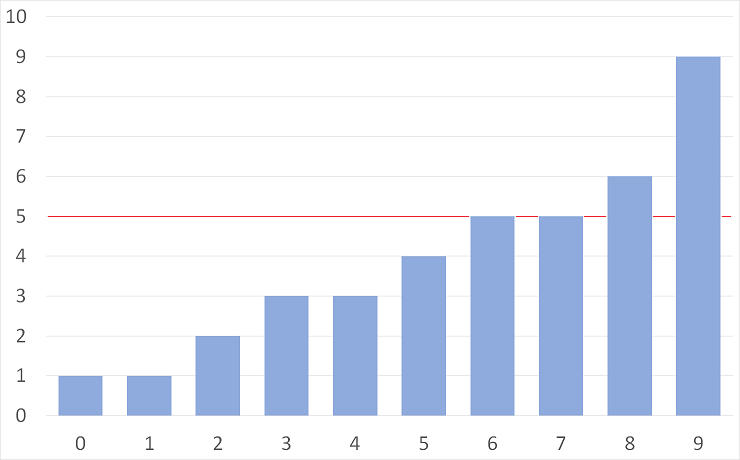
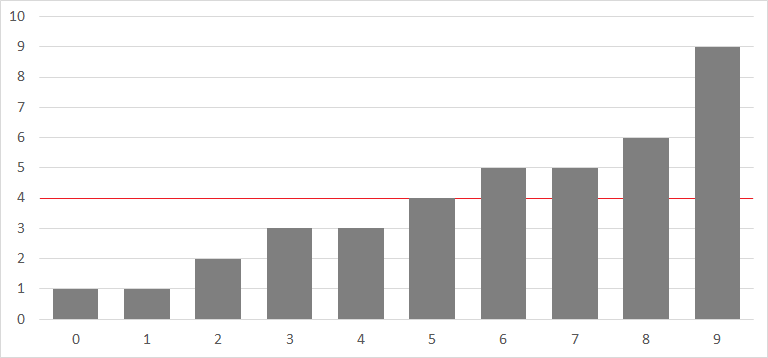
二分探索 問題例 終了

diff --git a/le/k_c_pej_p_gm/binarySearch/binarySearch.html b/le/k_c_pej_p_gm/binarySearch/binarySearch.html
@@ -95,7 +95,7 @@
         <article class="cb21 fxtb">
           <h2 class="cb33">二分探索</h2>
           <span class="cb34">
-            二分探索は、「要素数Nの配列Aの中に、K以下の数は何個あるか」といった問題の時に役立ちます。具体的には、Q個のクエリが投げられて、各クエリは、「K<sub>i</sub>以下の数は、配列Aの中に何個あるか」というもので、制約は以下の通りです。<br>
+            二分探索は、「要素数Nの配列Aの中に、K以下の数は何個あるか」といった問題の時に役立ちます。具体的には、Q個のクエリが投げられて、各クエリは、「K<sub>i</sub>以下の数は、配列Aの中に何個あるか」という問題を考えてみます。制約は以下の通りです。<br>
             <ul>
               <li>1 &le; N, Q &le; 2&times;10<sup>5</sup></li>
               <li>0 &le; K &le; 10<sup>9</sup></li>
@@ -129,9 +129,7 @@
     <span class="wdkywd">int</span> n<span class="wdsl">,</span> q<span class="wdsl">;</span>
     cin <span class="wdsl">&gt;&gt;</span> n <span class="wdsl">&gt;&gt;</span> q<span class="wdsl">;</span>
     vector<span class="wdsl">&lt;</span><span class="wdkywd">int</span><span class="wdsl">&gt;</span> a<span class="wdsl">(</span>n<span class="wdsl">);</span>
-    <span class="wdkywd">for</span> <span class="wdsl">(</span><span class="wdkywd">int</span> i <span class="wdsl">=</span> <span class="wdnr">0</span><span class="wdsl">;</span> i <span class="wdsl">&lt;</span> n<span class="wdsl">;</span> i<span class="wdsl">++)</span> <span class="wdsl">{</span>
-        cin <span class="wdsl">&gt;&gt;</span> a<span class="wdsl">[</span>i<span class="wdsl">];</span>
-    <span class="wdsl">}</span>
+    <span class="wdkywd">for</span> <span class="wdsl">(</span><span class="wdkywd">int</span> i <span class="wdsl">=</span> <span class="wdnr">0</span><span class="wdsl">;</span> i <span class="wdsl">&lt;</span> n<span class="wdsl">;</span> i<span class="wdsl">++)</span> cin <span class="wdsl">&gt;&gt;</span> a<span class="wdsl">[</span>i<span class="wdsl">];</span>
     <span class="wdc_mt">// ここでQ回
 </span>    <span class="wdkywd">for</span> <span class="wdsl">(</span><span class="wdkywd">int</span> i <span class="wdsl">=</span> <span class="wdnr">0</span><span class="wdsl">;</span> i <span class="wdsl">&lt;</span> q<span class="wdsl">;</span> i<span class="wdsl">++)</span> <span class="wdsl">{</span>
         <span class="wdkywd">int</span> k<span class="wdsl">;</span>
@@ -187,7 +185,7 @@
           <div class="cb31">
             <h3 class="cb40">具体的に考える</h3>
             <span class="cb41">
-              Kが5の時を考えてみます。この時、Aをグラフにすると以下のようになります。
+              Kが4の時を考えてみます。この時、Aをグラフにすると以下のようになります。
             </span>
           </div>
         </article>
@@ -196,17 +194,133 @@
         </article>
         <article class="cb21 fxlr">
           <div class="cb31">
-            <h3 class="cb40">右端と左端を近づける</h3>
             <span class="cb41">
-              左端を<code class="paghco">l</code>右端を<code class="paghco">r</code>として、これを徐々に近づけていくことにします。 まず、<code class="paghco">l</code>と<code class="paghco">r</code>の中間すなわち<code class="paghco"><span class="wdsl">(</span>l<span class="wdsl">+</span>r<span class="wdsl">)/</span><span class="wdnr">2</span></code>の部分を見ます。そして、ここが条件を満たしているかどうかを判定します。 まず、<code class="paghco">l</code>の初期値は必ず条件を満たしていないように、<code class="paghco">r</code>の初期値は必ず条件を満たすようにする必要があります。
+              この時、探索領域の左端を<code class="paghco">l</code>、右端を<code class="paghco">r</code>として、<code class="paghco">l</code>の指す値は必ず5以下になっているように、<code class="paghco">r</code>の指す値は必ず4より大きくなっているように維持しながら、探索領域を狭めていくことを考えます。<br>
+              まず、<code class="paghco">l</code>を0、<code class="paghco">r</code>を9とすると、条件を満たします。次に、<code class="paghco">l</code>と<code class="paghco">r</code>の（相加）平均値（の切り捨て）を見ます。すなわち、4（=floor((0+9)/2)）を見ます。<code class="paghco">A<span class="wdsl">[</span><span class="wdnr">4</span><span class="wdsl">]</span></code>は3、すなわち4以下なので、<code class="paghco">l</code>を4にします。
+            </span>
+          </div>
+        </article>
+        <article class="cb21 fxrl">
+          <img class="cb32" src="step1.png">
+        </article>
+        <article class="cb21 fxlr">
+          <div class="cb31">
+            <span class="cb41">
+              次に、再び<code class="paghco">l</code>と<code class="paghco">r</code>の平均値を見ます。floor((4+9)/2)=6で、<code class="paghco">A<span class="wdsl">[</span><span class="wdnr">6</span><span class="wdsl">]</span></code>は5、すなわち4より大きいので、<code class="paghco">r</code>を6にします。
+            </span>
+          </div>
+        </article>
+        <article class="cb21 fxrl">
+          <img class="cb32" src="step2.png">
+        </article>
+        <article class="cb21 fxlr">
+          <div class="cb31">
+            <span class="cb41">
+              さらに、<code class="paghco">l</code>と<code class="paghco">r</code>の平均値を見ます。floor((4+6)/2)=5で、<code class="paghco">A<span class="wdsl">[</span><span class="wdnr">5</span><span class="wdsl">]</span></code>は4、すなわち4以下なので、<code class="paghco">l</code>を5にします。
+            </span>
+          </div>
+        </article>
+        <article class="cb21 fxrl">
+          <img class="cb32" src="step3.png">
+        </article>
+        <article class="cb21 fxlr">
+          <div class="cb31">
+            <span class="cb41">
+              ここで、<code class="paghco">l</code>と<code class="paghco">r</code>の差が1になったので、探索を終了します。
+            </span>
+          </div>
+        </article>
+        <article class="cb21 fxrl">
+          <img class="cb32" src="step4.png">
+        </article>
+        <article class="cb21 fxlr">
+          <div class="cb31">
+            <span class="cb41">
+              この時、<code class="paghco">A<span class="wdsl">[</span>l<span class="wdsl">]</span></code>は必ず4以下、<code class="paghco">A<span class="wdsl">[</span>r<span class="wdsl">]</span></code>は必ず4より大きいという状態が保たれるように、<code class="paghco">l</code>と<code class="paghco">r</code>を近づけていったので、<code class="paghco">l</code>は4以下の中で最も左端、<code class="paghco">r</code>は4より大きい中でももっとも右端にあります。したがって、4以下の数は添え字が0からlまでの区間（両端含む）にあり、それ以外にはありません。よって、この時の答えは<code class="paghco">l<span class="wdsl">+</span><span class="wdnr">1</span></code>個（＝<code class="paghco">r</code>個）です。
             </span>
           </div>
         </article>
         <article class="cb21 fxlr">
           <div class="cb31">
-            <h3 class="cb40">under preparation</h3>
+            <h3 class="cb40">もう少し一般化</h3>
+            <span class="cb41">
+              <code class="paghco">A<span class="wdsl">[</span>l<span class="wdsl">]</span></code>は必ずK以下、<code class="paghco">A<span class="wdsl">[</span>r<span class="wdsl">]</span></code>は必ずKより大きいという条件を保ったまま探索していきます。ここで、先ほどは<code class="paghco">l</code>を0、<code class="paghco">r</code>をN-1としてきましたが、これでは最初から条件を満たさない場合があります（先ほどの例でK=100の時など）。そこで、<code class="paghco">l</code>を-1、<code class="paghco">r</code>をNとします。一見、範囲外アクセスをしそうですが、実はそのようなことは起こりません。なぜなら、実際に配列の値を見るのは<code class="paghco"><span class="wdsl">(</span>l<span class="wdsl">+</span>r<span class="wdsl">)/</span><span class="wdnr">2</span></code>です。<code class="paghco">l</code>と<code class="paghco">r</code>の差が1の時は探索を終了しますから、最も近くても<code class="paghco"><span class="wdsl">(-</span><span class="wdnr">1</span><span class="wdsl">+</span><span class="wdnr">1</span><span class="wdsl">)/</span><span class="wdnr">2</span></code>で0になり、<code class="paghco"><span class="wdsl">(</span>N<span class="wdsl">-</span><span class="wdnr">2</span><span class="wdsl">+</span>N<span class="wdsl">)/</span><span class="wdnr">2</span></code>でN-1となります。よって、これでも範囲外アクセスを起こすことなく、番兵の存在を仮定して考えることができます。これで<code class="paghco">l</code>と<code class="paghco">r</code>の初期値が決まりました。ここから、<code class="paghco"><span class="wdsl">(</span>l<span class="wdsl">+</span>r<span class="wdsl">)/</span><span class="wdnr">2</span></code>を見て、<code class="paghco">A<span class="wdsl">[(</span>l<span class="wdsl">+</span>r<span class="wdsl">)/</span><span class="wdnr">2</span><span class="wdsl">]</span></code>がK以下なら、<code class="paghco">l</code>を<code class="paghco"><span class="wdsl">(</span>l<span class="wdsl">+</span>r<span class="wdsl">)/</span><span class="wdnr">2</span></code>に、そうでなければ<code class="paghco">r</code>を<code class="paghco"><span class="wdsl">(</span>l<span class="wdsl">+</span>r<span class="wdsl">)/</span><span class="wdnr">2</span></code>にします。最終的に<code class="paghco">l</code>と<code class="paghco">r</code>の差が1になったら探索を終了します。
+            </span>
+          </div>
+        </article>
+        <article class="cb21 fxlr">
+          <div class="cb31">
+            <h3 class="cb40">計算量</h3>
+            <span class="cb41">
+              では、この時の計算量はどうなるでしょうか。一回の探索ごとに、探索領域はおよそ二分の一になっています。例えば先ほどの例だと、10->6->3->2と、確かにおよそ二分の一ずつ減っています。Nの時は、N->N/2->N/4->...くらいとなることが予想されます。ここで、logという対数関数を考えます。一般に、1でない正の実数aと正の実数Nに対し、N=a<sup>p</sup>となる実数pはただ1つに定まるので、これをlog<sub>a</sub>Nと表します。平たく言えば、これは、「Nはaの何乗か」です。例えば、log<sub>2</sub>8=3、log<sub>3</sub>9=2です。よって、この対数関数を使って表すと、探索回数はおよそlog<sub>2</sub>N回と言うことができます。よって、1回あたりの計算量はO(log N)です。O記法では、底（前述の例のaをこう言い、「てい」と読みます）の違いは定数倍だとみなされるので、省略することが多いです。<br>
+              さて、具体的にO(log N)はどれほど高速なのでしょうか。今回はNは最大で2&times;10<sup>5</sup>なので、log<sub>2</sub>2&times;10<sup>5</sup>=17.6...となり、およそ18回くらいの探索で終了するということがわかります。愚直に探索するとそのまま2&times;10<sup>5</sup>回の探索が必要でしたから、劇的な高速化に成功しました。全体としての計算量はO(Q log N)となり、十分高速です。
+            </span>
+          </div>
+        </article>
+        <article class="cb21 fxlr">
+          <div class="cb31">
+            <h3 class="cb40">実装例</h3>
             <span class="cb41">
 
+            </span>
+          </div>
+        </article>
+        <article class="cb21">
+          <div class="cb37">
+            <div class="cb46">
+              <span class="cb54">実装例</span>
+              <button type="button" class="cb53" onclick="copy('binSer')">
+                <span class="cb61">COPY</span>
+              </button>
+            </div>
+            <code class="cb47">
+<pre id="binSer" class="cb55 bkgdgy">
+<span class="cb62"><span class="paghco"><span class="wdp_q_p_csc_md">#include</span> <span class="wdsl">&lt;</span>bits<span class="wdsl">/</span>stdc<span class="wdsl">++</span>.h<span class="wdsl">&gt;</span>
+<span class="wdkywd">using</span> <span class="wdkywd">namespace</span> std<span class="wdsl">;</span>
+<span class="wdkywd">int</span> main<span class="wdsl">()</span> <span class="wdsl">{</span>
+    <span class="wdkywd">int</span> n<span class="wdsl">,</span> q<span class="wdsl">;</span>
+    cin <span class="wdsl">&gt;&gt;</span> n <span class="wdsl">&gt;&gt;</span> q<span class="wdsl">;</span>
+    vector<span class="wdsl">&lt;</span><span class="wdkywd">int</span><span class="wdsl">&gt;</span> a<span class="wdsl">(</span>n<span class="wdsl">);</span>
+    <span class="wdkywd">for</span> <span class="wdsl">(</span><span class="wdkywd">int</span> i <span class="wdsl">=</span> <span class="wdnr">0</span><span class="wdsl">;</span> i <span class="wdsl">&lt;</span> n<span class="wdsl">;</span> i<span class="wdsl">++)</span> cin <span class="wdsl">&gt;&gt;</span> a<span class="wdsl">[</span>i<span class="wdsl">];</span>
+
+    <span class="wdc_mt">// aをソート
+</span>    sort<span class="wdsl">(</span>a.begin<span class="wdsl">(),</span> a.end<span class="wdsl">());</span>
+
+    <span class="wdkywd">for</span> <span class="wdsl">(</span><span class="wdkywd">int</span> qi <span class="wdsl">=</span> <span class="wdnr">0</span><span class="wdsl">;</span> qi <span class="wdsl">&lt;</span> q<span class="wdsl">;</span> qi<span class="wdsl">++)</span> <span class="wdsl">{</span>
+        <span class="wdkywd">int</span> k<span class="wdsl">;</span>
+        cin <span class="wdsl">&gt;&gt;</span> k<span class="wdsl">;</span>
+        <span class="wdc_mt">// l,rと平均用のmidを宣言
+</span>        <span class="wdkywd">int</span> l <span class="wdsl">=</span> <span class="wdsl">-</span><span class="wdnr">1</span><span class="wdsl">,</span> r <span class="wdsl">=</span> n<span class="wdsl">,</span> mid<span class="wdsl">;</span>
+        <span class="wdc_mt">// r-lでもいいが、lとrが入れ替わった時などにバグらせづらくなるのでabsをつけた方がおすすめ
+</span>        <span class="wdkywd">while</span> <span class="wdsl">(</span>abs<span class="wdsl">(</span>l <span class="wdsl">-</span> r<span class="wdsl">)</span> <span class="wdsl">&gt;</span> <span class="wdnr">1</span><span class="wdsl">)</span> <span class="wdsl">{</span>
+            <span class="wdc_mt">// midをl,rの平均に
+</span>            mid <span class="wdsl">=</span> <span class="wdsl">(</span>l <span class="wdsl">+</span> r<span class="wdsl">)</span> <span class="wdsl">/</span> <span class="wdnr">2</span><span class="wdsl">;</span>
+            <span class="wdc_mt">// a[mid]がk以下かどうか見る
+</span>            <span class="wdkywd">if</span> <span class="wdsl">(</span>a<span class="wdsl">[</span>mid<span class="wdsl">]</span> <span class="wdsl">&lt;=</span> k<span class="wdsl">)</span> <span class="wdsl">{</span>
+                l <span class="wdsl">=</span> mid<span class="wdsl">;</span>
+            <span class="wdsl">}</span> <span class="wdkywd">else</span> <span class="wdsl">{</span>
+                r <span class="wdsl">=</span> mid<span class="wdsl">;</span>
+            <span class="wdsl">}</span>
+        <span class="wdsl">}</span>
+        cout <span class="wdsl">&lt;&lt;</span> l <span class="wdsl">+</span> <span class="wdnr">1</span> <span class="wdsl">&lt;&lt;</span> endl<span class="wdsl">;</span>
+    <span class="wdsl">}</span>
+    <span class="wdkywd">return</span> <span class="wdnr">0</span><span class="wdsl">;</span>
+<span class="wdsl">}</span>
+</span></span></pre>
+						</code>
+          </div>
+        </article>
+        <article class="cb21 fxtb">
+          <h2 class="cb33">一般化</h2>
+          <span class="cb34">
+            under preparation
+          </span>
+        </article>
+        <article class="cb21 fxlr">
+          <div class="cb31">
+            <h3 class="cb40">under preparation</h3>
+            <span class="cb41">
+              under preparation
             </span>
           </div>
         </article>
